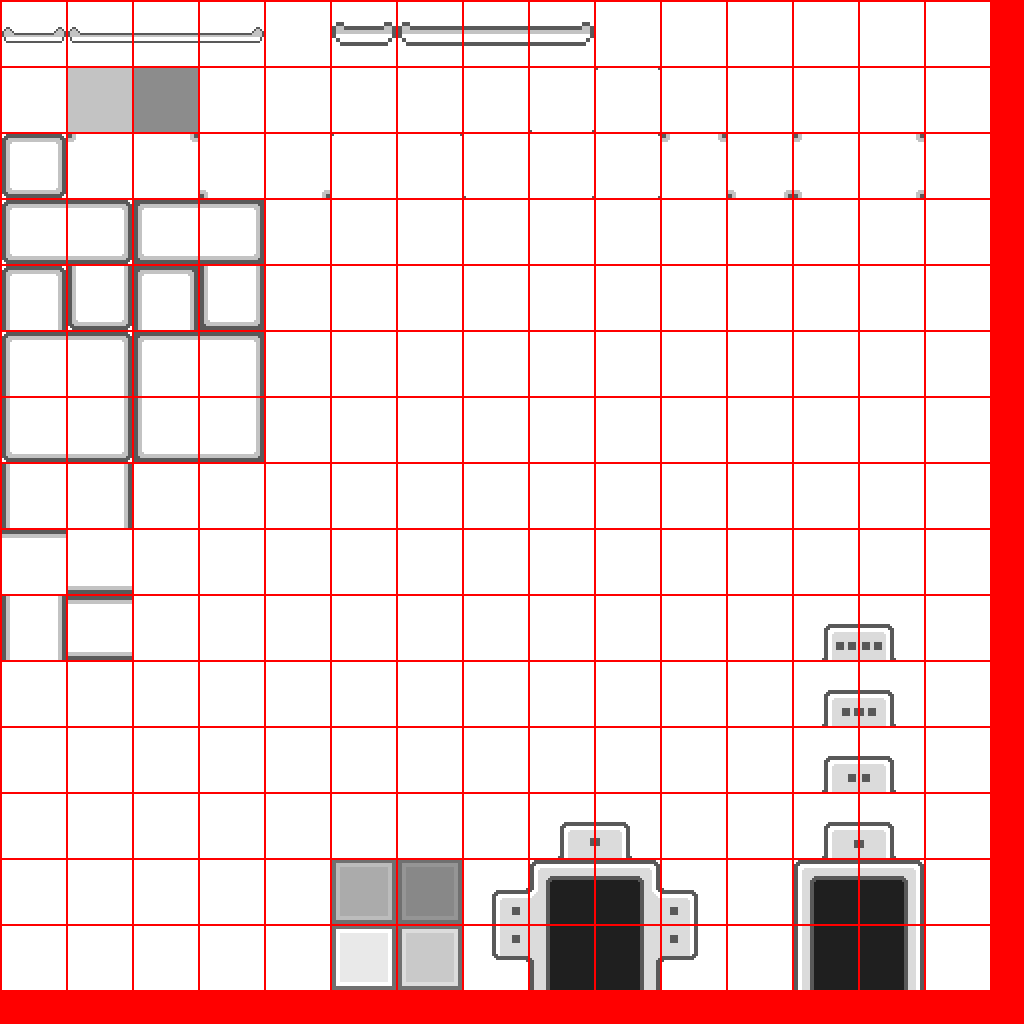
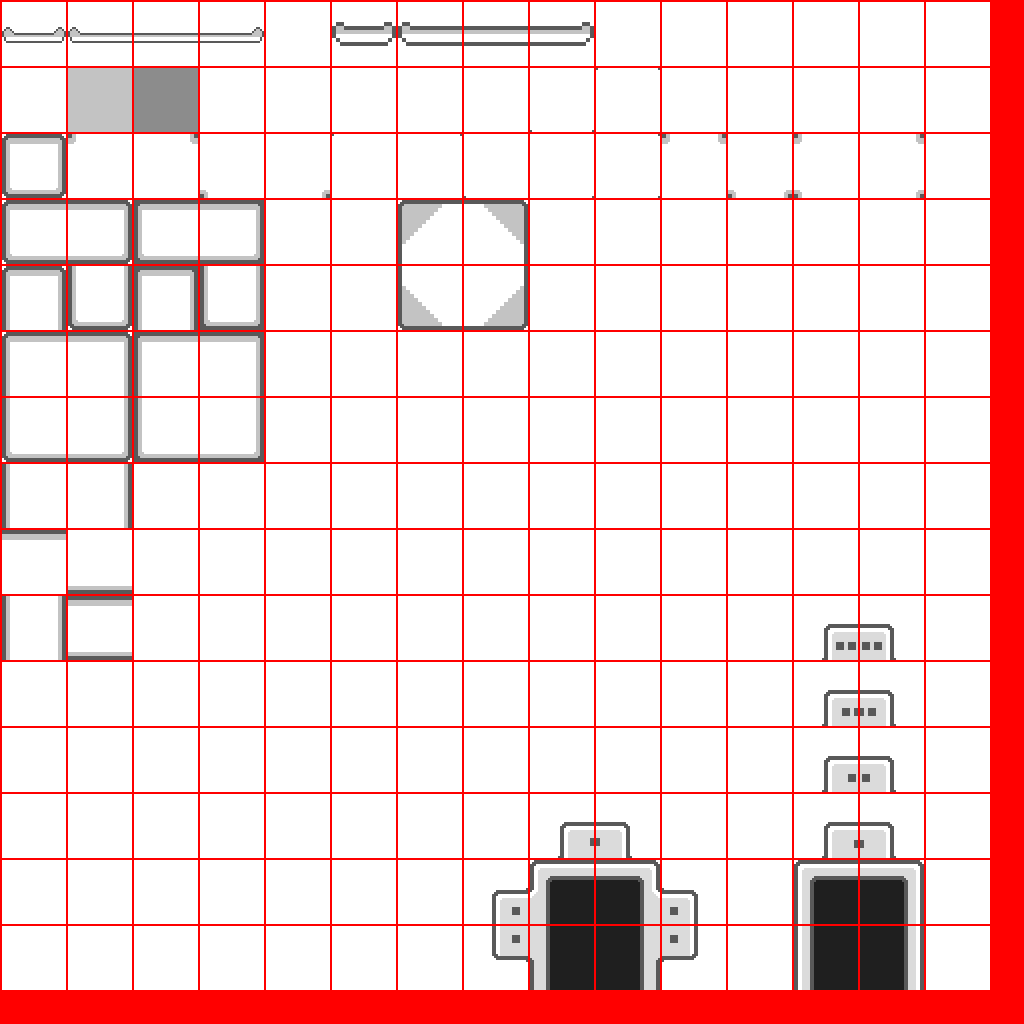
Updated levels and graphics and bears oh my.

Changed region(s): [[0.3125, 0.8125, 0.4688, 0.9688], [0.375, 0.1875, 0.5312, 0.3438]]

diff --git a/core/src/entity/Player.java b/core/src/entity/Player.java
@@ -280,28 +280,13 @@ public final class Player extends Entity {
 		_numFootContacts++;
 		_isJumping = _numFootContacts < 1;
 
-		Fixture fixture = contact.getFixtureA();
-		if(fixture.getBody().equals(_body)) {
-			fixture = contact.getFixtureB();
-		}
-		
-		Entity entity = Utils.getEntity(fixture);
-		Body body = fixture.getBody();
-		BodyType bodyType = body.getType();
-		BodyData bodyData = (BodyData)body.getUserData();
 		if(!_isJumping && getCenterY() - _lastActualPos.y > FALL_HEIGHT_LIMIT) {
 			respawn("die", true, 0.5f, null);
-		} else if(_numFootContacts >= 1 && !fixture.isSensor()) {	 
-			if(bodyType != BodyType.DynamicBody && (bodyType != BodyType.KinematicBody || entity.getBody().getLinearVelocity().isZero()) &&
-			  (entity == null || entity.isValidForPlayerRespawn()) && !isInGravityPipe() && bodyData.isValidForRespawn()) {
-				_isLastValidDirectionRight = isFacingRight();
-				_lastValidPos.set(getCenterX(), getCenterY());
-			}
-			
-			_lastActualPos.set(getCenterX(), getCenterY());
+		} else {
+			_tryUpdateLastValidPos(contact);
 		}
 	}
-	
+
 	public void decrementFootContacts(Contact contact) {
 		_numFootContacts--;
 		if(_numFootContacts < 0) {
@@ -388,6 +373,27 @@ public final class Player extends Entity {
 		
 		if(_numFootContacts == 0 && !_isJumpAnimationPlaying() && !_isBlinkAnimationPlaying()) {
 			_animationSystem.switchToDefault();
+		}
+	}
+	
+	private void _tryUpdateLastValidPos(Contact contact) {
+		Fixture fixture = contact.getFixtureA();
+		if(fixture.getBody().equals(_body)) {
+			fixture = contact.getFixtureB();
+		}
+		
+		Entity entity = Utils.getEntity(fixture);
+		Body body = fixture.getBody();
+		BodyType bodyType = body.getType();
+		BodyData bodyData = (BodyData)body.getUserData();
+		if(_numFootContacts >= 1 && !fixture.isSensor()) {	 
+			if(bodyType != BodyType.DynamicBody && (bodyType != BodyType.KinematicBody || entity.getBody().getLinearVelocity().isZero()) &&
+			  (entity == null || entity.isValidForPlayerRespawn()) && !isInGravityPipe() && bodyData.isValidForRespawn()) {
+				_isLastValidDirectionRight = isFacingRight();
+				_lastValidPos.set(getCenterX(), getCenterY());
+			}
+			
+			_lastActualPos.set(getCenterX(), getCenterY());
 		}
 	}
 	
